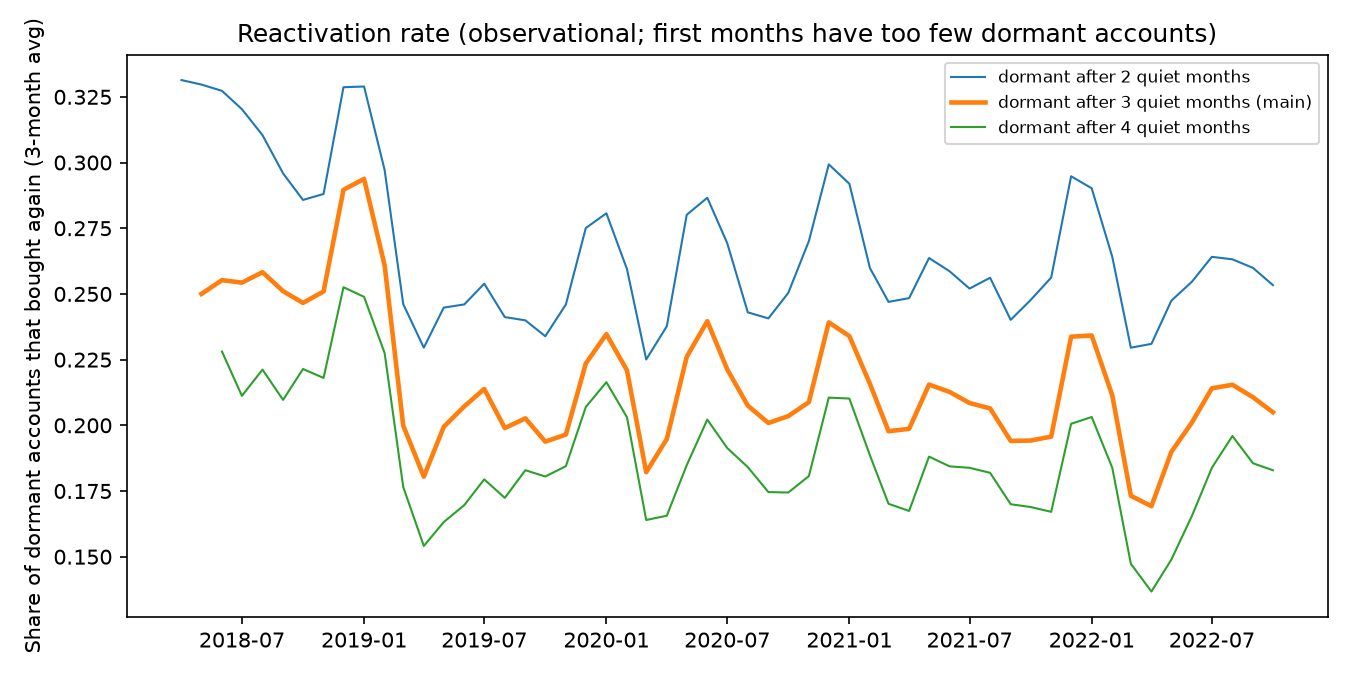
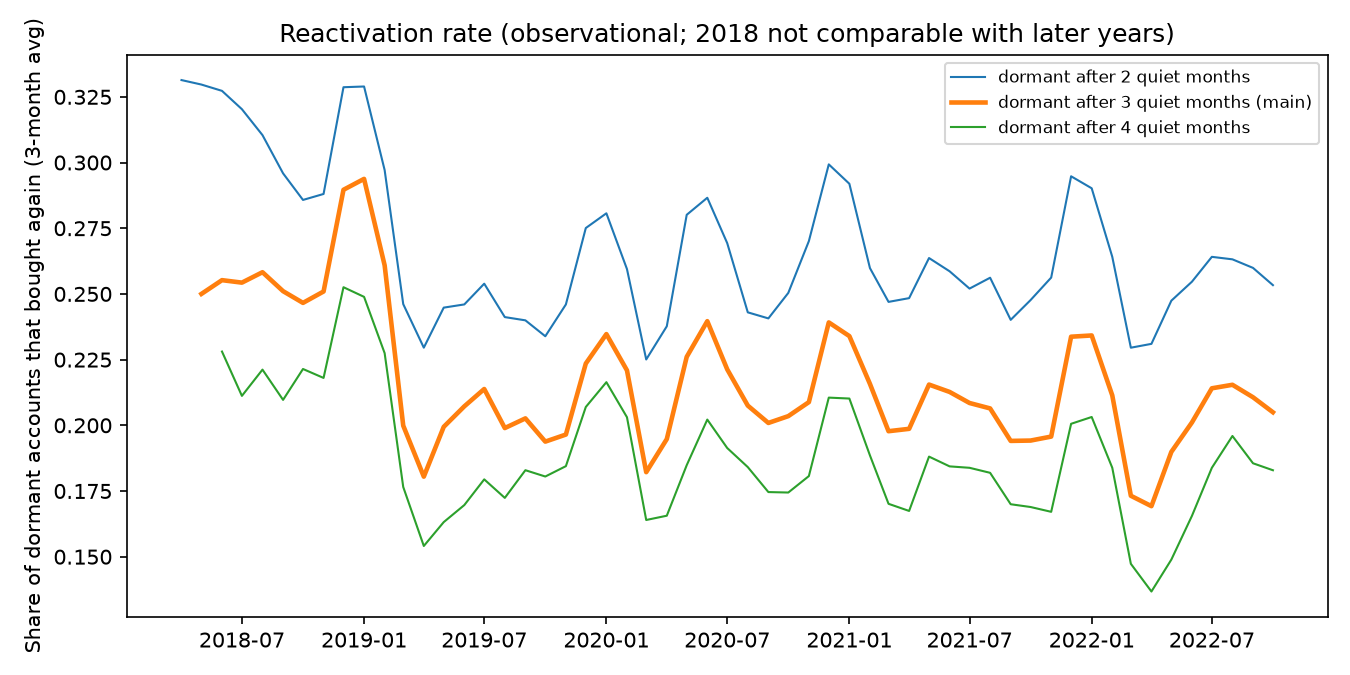
Monetization: concentration, category mix, spend by year, tests

Changed region(s): [[0.1556, 0.0311, 0.9022, 0.0622]]

diff --git a/tests/test_monetization.py b/tests/test_monetization.py
@@ -1,0 +1,99 @@
+import os
+import pathlib
+import duckdb
+import numpy as np
+import pandas as pd
+import pytest
+from src.monetization import (gini, top_share, share_of_accounts_for_half, concentration,
+                              run_category_mix)
+from src.sql_metrics import SQL_DIR
+
+EMPTY_SURVEY = pd.DataFrame({"user_id": pd.Series(dtype="string"),
+                             "shopping_freq": pd.Series(dtype="string"),
+                             "age_group": pd.Series(dtype="string")})
+
+
+def con_for(rows, cols):
+    p = pd.DataFrame(rows, columns=cols)
+    con = duckdb.connect()
+    con.register("purchases", p)
+    con.register("survey_min", EMPTY_SURVEY)
+    return con
+
+
+def test_gini_known_values():
+    assert gini([5, 5, 5, 5]) == pytest.approx(0.0)
+    assert gini([0, 0, 0, 10]) == pytest.approx(0.75)        # (n-1)/n when one account has everything
+    assert gini([1, 2, 3, 4]) == pytest.approx(0.25)
+
+
+def test_concentration_known_values():
+    x = list(range(1, 21))                                   # 20 accounts spending 1..20, total 210
+    assert top_share(x, 0.10) == pytest.approx(39 / 210)      # top 2 accounts: 20 + 19
+    assert top_share(x, 0.01) == pytest.approx(20 / 210)      # at least one account
+    assert share_of_accounts_for_half(x) == pytest.approx(6 / 20)   # 20+19+18+17+16+15 = 105 = half
+    c = concentration(x)
+    assert c["accounts"] == 20 and c["total_spend"] == 210 and c["median"] == pytest.approx(10.5)
+
+
+def cat_rows():
+    cols = ["user_id", "spend", "qty", "category_clean", "is_gift"]
+    rows = [("u1", 60.0, 1, "A", False), ("u2", 40.0, 1, "A", False),
+            ("u1", 50.0, 1, "B", False), ("u3", 30.0, 1, "B", False),
+            ("u4", 20.0, 1, "C", False), ("u5", 10.0, 1, "D", False),
+            ("u1", 15.0, 1, "Unknown", False), ("u2", 25.0, 1, "Sensitive (not broken out)", False),
+            ("u6", 999.0, 1, "A", True)]                     # gift card: excluded
+    return rows, cols
+
+
+def test_category_mix_groups_and_shares():
+    rows, cols = cat_rows()
+    out = run_category_mix(con_for(rows, cols), top_n=2, min_accounts=1)
+    assert list(out["category_group"]) == ["A", "B", "Other categories",
+                                           "Sensitive (not broken out)", "Unknown"]
+    assert list(out["spend"]) == pytest.approx([100, 80, 30, 25, 15])
+    assert list(out["share_of_spend"]) == pytest.approx([0.40, 0.32, 0.12, 0.10, 0.06])
+    assert list(out["accounts"]) == [2, 2, 2, 1, 1]          # "Other" counts u4 and u5 once each
+    assert out["share_of_spend"].sum() == pytest.approx(1.0)
+
+
+def test_category_mix_suppresses_small_groups():
+    rows, cols = cat_rows()
+    out = run_category_mix(con_for(rows, cols), top_n=2, min_accounts=2)
+    assert list(out["category_group"]) == ["A", "B", "Other categories"]
+
+
+def test_spend_by_year_uses_jan_oct_only():
+    cols = ["user_id", "date", "spend", "is_gift"]
+    rows = [("u1", "2019-03-05", 10.0, False), ("u2", "2019-11-05", 100.0, False),
+            ("u2", "2020-02-05", 20.0, False), ("u3", "2020-05-05", 50.0, True)]
+    p = pd.DataFrame(rows, columns=cols)
+    p["date"] = pd.to_datetime(p["date"])
+    con = duckdb.connect()
+    con.register("purchases", p)
+    out = con.execute((SQL_DIR / "07_spend_by_year.sql").read_text()).df().set_index("year")
+    assert out.loc[2019, "spend_jan_oct"] == 10 and out.loc[2019, "active_accounts"] == 1
+    assert out.loc[2019, "spend_per_account"] == pytest.approx(5.0)         # denominator: 2 accounts
+    assert out.loc[2020, "spend_jan_oct"] == 20
+    assert out.loc[2020, "spend_per_active_account"] == pytest.approx(20.0)
+
+
+PARQUET = pathlib.Path("data/processed/purchases_clean.parquet")
+
+
+@pytest.mark.skipif(os.environ.get("RUN_REAL_DATA") != "1" or not PARQUET.exists(),
+                    reason="needs the real cleaned parquet; set RUN_REAL_DATA=1")
+def test_real_data_monetization_matches_earlier_numbers():
+    from src.sql_metrics import connect, run
+    con = connect()
+    users = run(con, "02_user_metrics.sql")
+    c = concentration(users["spend"])
+    assert c["accounts"] == 5014
+    assert round(c["total_spend"]) == 40055052
+    assert round(c["max"], 1) == 106886.9
+    assert 0 < c["gini"] < 1
+    cat = run_category_mix(con, min_accounts=1)
+    assert round(cat["spend"].sum()) == 40055052
+    assert cat["share_of_spend"].sum() == pytest.approx(1.0)
+    yr = run(con, "07_spend_by_year.sql")
+    assert len(yr) == 5

diff --git a/src/monetization.py b/src/monetization.py
@@ -1,0 +1,101 @@
+"""Step 4: monetization. Descriptive only. Confidence intervals come in the inference step."""
+import math
+import pathlib
+import matplotlib
+matplotlib.use("Agg")
+import matplotlib.pyplot as plt
+import numpy as np
+import pandas as pd
+from src.sql_metrics import SQL_DIR, connect, run
+
+TOP_N = 15
+MIN_ACCOUNTS = 30
+
+
+def run_category_mix(con, top_n=TOP_N, min_accounts=MIN_ACCOUNTS):
+    sql = (SQL_DIR / "06_category_mix.sql").read_text()
+    sql = sql.replace("__TOP_N__", str(top_n)).replace("__MIN_ACCOUNTS__", str(min_accounts))
+    return con.execute(sql).df()
+
+
+def gini(x):
+    """0 = everyone spends the same, close to 1 = one account spends nearly everything."""
+    x = np.sort(np.asarray(x, dtype=float))
+    n = len(x)
+    return float(2 * np.sum(np.arange(1, n + 1) * x) / (n * x.sum()) - (n + 1) / n)
+
+
+def top_share(x, frac):
+    x = np.sort(np.asarray(x, dtype=float))[::-1]
+    k = math.ceil(frac * len(x) - 1e-9)
+    return float(x[:k].sum() / x.sum())
+
+
+def share_of_accounts_for_half(x):
+    x = np.sort(np.asarray(x, dtype=float))[::-1]
+    k = int(np.searchsorted(np.cumsum(x), 0.5 * x.sum() - 1e-9) + 1)
+    return k / len(x)
+
+
+def concentration(x):
+    x = np.asarray(x, dtype=float)
+    q = np.percentile(x, [10, 25, 50, 75, 90, 99])
+    return {"accounts": len(x), "total_spend": float(x.sum()), "mean": float(x.mean()),
+            "p10": q[0], "p25": q[1], "median": q[2], "p75": q[3], "p90": q[4], "p99": q[5],
+            "max": float(x.max()), "top_1pct_share": top_share(x, 0.01),
+            "top_10pct_share": top_share(x, 0.10), "gini": gini(x),
+            "share_of_accounts_for_half_of_spend": share_of_accounts_for_half(x)}
+
+
+def main():
+    tables, figs = pathlib.Path("reports/tables"), pathlib.Path("reports/figures")
+    tables.mkdir(parents=True, exist_ok=True)
+    figs.mkdir(parents=True, exist_ok=True)
+    con = connect()
+    spend = run(con, "02_user_metrics.sql")["spend"].to_numpy()
+    full = concentration(spend)
+    without_top = concentration(np.sort(spend)[:-1])
+    conc = pd.DataFrame({"all_accounts": full, "without_largest_account": without_top})
+    conc.to_csv(tables / "spend_concentration.csv")
+    print("spend per account and concentration (point estimates; CIs come later):")
+    print(conc.round(3).to_string())
+    print("\nlargest account share of total spend:", round(spend.max() / spend.sum() * 100, 2), "%")
+
+    cat = run_category_mix(con)
+    cat.to_csv(tables / "category_mix.csv", index=False)
+    print("\ncategory mix (share of spend):")
+    print(cat.assign(spend=lambda d: d["spend"].round(0), share_of_spend=lambda d: d["share_of_spend"].round(4))
+          .to_string(index=False))
+
+    yr = run(con, "07_spend_by_year.sql")
+    yr.to_csv(tables / "spend_by_year_jan_oct.csv", index=False)
+    print("\nJan-Oct spend by year (same months each year, current dollars, not inflation-adjusted):")
+    print(yr.round(1).to_string(index=False))
+
+    x = np.sort(spend)
+    cum = np.insert(np.cumsum(x) / x.sum(), 0, 0)
+    pop = np.linspace(0, 1, len(cum))
+    fig, ax = plt.subplots(figsize=(5.5, 5.5))
+    ax.plot(pop, cum, color="#1f5fa8", lw=2, label=f"Actual (Gini {full['gini']:.2f})")
+    ax.plot([0, 1], [0, 1], color="grey", ls="--", lw=1, label="Everyone spends the same")
+    ax.set_xlabel("Cumulative share of accounts (lowest to highest spend)")
+    ax.set_ylabel("Cumulative share of total spend")
+    ax.set_title(f"Top 10% of accounts = {full['top_10pct_share']:.0%} of spend\n(observational; volunteer sample)")
+    ax.legend(fontsize=8)
+    fig.tight_layout()
+    fig.savefig(figs / "spend_concentration.png", dpi=150)
+    plt.close(fig)
+
+    fig, ax = plt.subplots(figsize=(8, 5.5))
+    c = cat.iloc[::-1]
+    ax.barh(c["category_group"], c["share_of_spend"] * 100, color="#c4501f")
+    ax.set_xlabel("Share of spend (%)")
+    ax.set_title("Where spend goes (gift cards excluded; Amazon product types)")
+    fig.tight_layout()
+    fig.savefig(figs / "category_mix.png", dpi=150)
+    plt.close(fig)
+    print("\nsaved tables and charts")
+
+
+if __name__ == "__main__":
+    main()

diff --git a/src/activity.py b/src/activity.py
@@ -74,7 +74,7 @@ def main():
         ax.plot(d["month"], r, lw=2.2 if g == DEFAULT_GAP else 1,
                 label=f"dormant after {g} quiet months" + (" (main)" if g == DEFAULT_GAP else ""))
     ax.set_ylabel("Share of dormant accounts that bought again (3-month avg)")
-    ax.set_title("Reactivation rate (observational; first months have too few dormant accounts)")
+    ax.set_title("Reactivation rate (observational; 2018 not comparable with later years)")
     ax.legend(fontsize=8)
     fig.tight_layout()
     fig.savefig(figs / "reactivation_rate.png", dpi=150)
